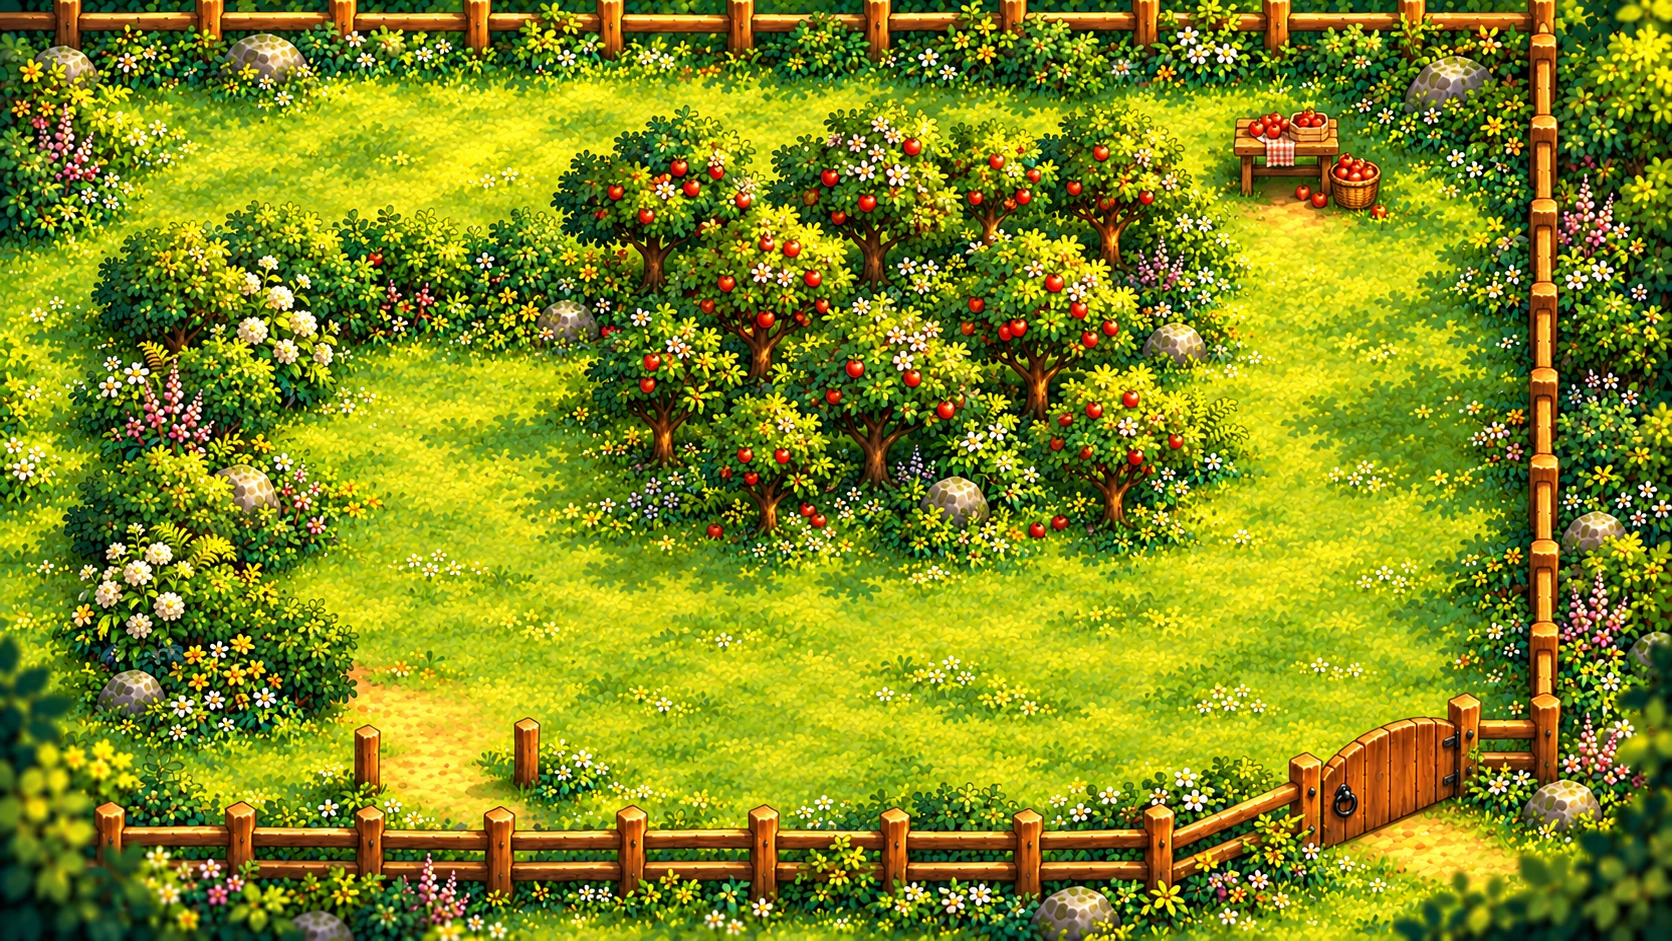
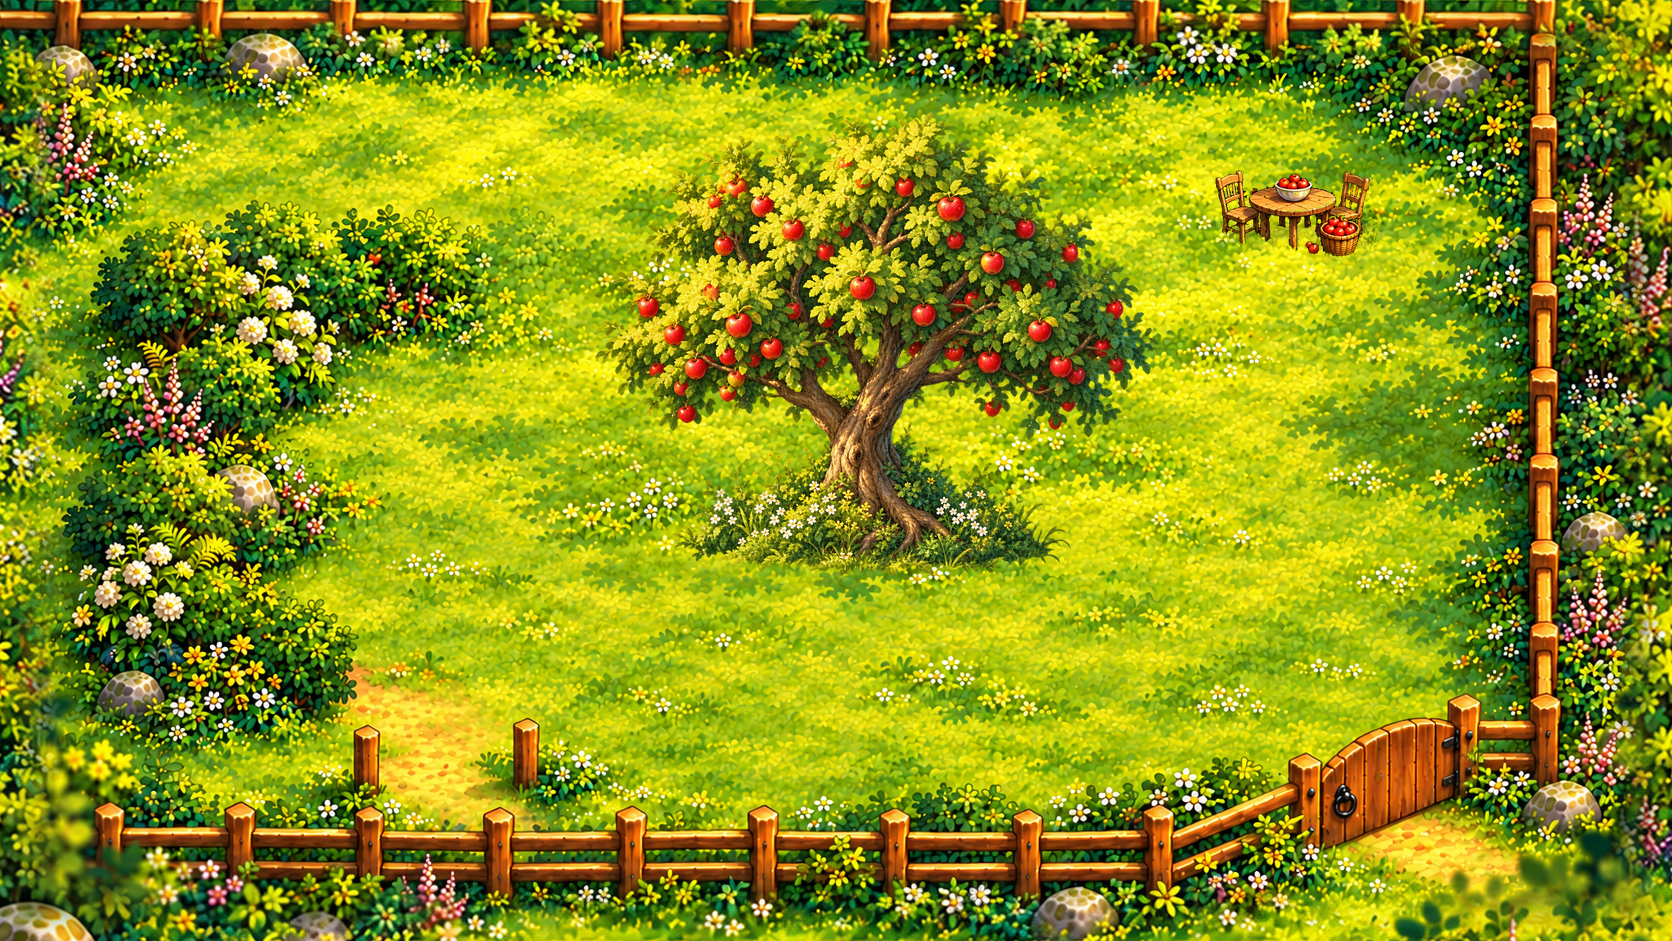
art(#46): stage single-table garden and painted wide for actual review

diff --git a/scripts/art-v9-install-garden-well.py b/scripts/art-v9-install-garden-well.py
@@ -1,0 +1,35 @@
+"""Stage delivered garden/well into the shared INACTIVE layout-2 contract.
+Readiness remains pending until actual game review; no production gate edits.
+"""
+from pathlib import Path
+import hashlib,json,shutil
+root=Path(__file__).resolve().parents[1]
+dest=root/'public/assets/chapter-1/v9'
+p=dest/'manifest.json';manifest=json.loads(p.read_text())
+for sid in ['garden','well']:
+ source=root/'public/assets/chapter-1-garden-well'
+ contract=json.loads((source/f'{sid}-manifest.json').read_text())
+ if not contract.get('wide'):
+  print(f'{sid}: not installed, wide delivery pending');continue
+ out=dest/sid;out.mkdir(exist_ok=True)
+ files=['background.webp','wide.webp']
+ for file in files:shutil.copy2(source/sid/file,out/file)
+ entry=manifest['scenes'][sid]
+ entry.update(background=f'{sid}/background.webp',foreground=None,
+  wide={**{k:contract['wide'][k] for k in ['canvas','originalRect']},'file':f'{sid}/wide.webp'},
+  joinBand=contract['wide'].get('joinBand',48),
+  sourceManifest=str((source/f'{sid}-manifest.json').relative_to(root)),
+  source=contract['source'],sourceSha256=contract['sourceSha256'],
+  status='map-matched-source-candidate-awaiting-actual-game',
+  wideStatus='painted-native-join-awaiting-actual-game',residentPresentation='scene-sprite-and-portrait')
+ # Garden: right of the single table, looking toward activity and the approach.
+ # Source suggested1295,265 is retained in source manifest for comparison.
+ feet={'garden':(1420,265),'well':(1225,405)}[sid]
+ entry['semanticAnchors']['residentFeet']={'x':feet[0],'y':feet[1],'status':'full-alpha-candidate-actual-composition-pending'}
+ if sid=='garden':
+  entry['semanticAnchors']['tableFrontFeet']={'x':1299,'y':263,'explanation':'single embedded source table bottom center; no separate table sprite'}
+ entry['checks']={'sourceGuardManifest':entry['sourceManifest'],'fullPolygonVisualAudit':'pending','gameQa':'not-run','artAcceptance':'pending'}
+ entry['deliveryFiles']={file:{'bytes':(out/file).stat().st_size,'sha256':hashlib.sha256((out/file).read_bytes()).hexdigest()} for file in files}
+ print(f'{sid}: staged inactive, actual review pending')
+manifest['activationStatus']='inactive-until-all-eight-art-and-geometry-reviewed'
+p.write_text(json.dumps(manifest,ensure_ascii=False,indent=2)+'\n')
